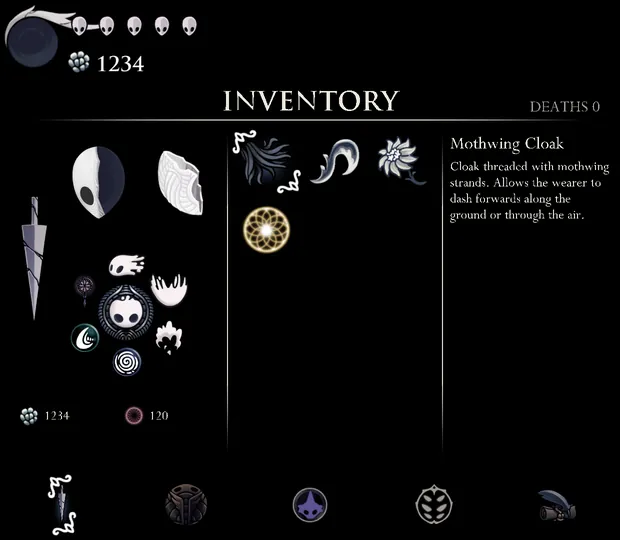
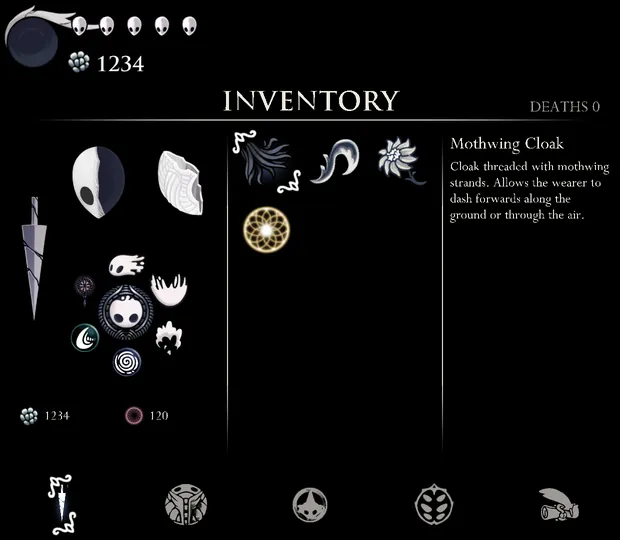
HK tab glyphs: device-tuned cut-out defaults; README recaptured; version 2.0.86 (#68)

diff --git a/tools/hollow-knight-patches/src/lower/HkTabGlyph.cs b/tools/hollow-knight-patches/src/lower/HkTabGlyph.cs
@@ -26,9 +26,10 @@ namespace HollowKnightPatches.Lower
     static class HkTabGlyph
     {
         // Normalised brightness below CutLow is cut out, above CutHigh is solid.
-        static float CutLow = 0.30f, CutHigh = 0.50f;
+        // Tuned on the Thor against the five real tab sprites (#68).
+        static float CutLow = 0.10f, CutHigh = 0.25f;
         // Keep the shape solid if cutting would leave less than this share.
-        static float MinKept = 0.45f;
+        static float MinKept = 0.25f;
 
         static readonly Dictionary<Sprite, Sprite> Made = new Dictionary<Sprite, Sprite>();
 

diff --git a/README.md b/README.md
@@ -40,6 +40,9 @@ keeps its own art, text and rules.
 - **Hollow Knight:** Inventory, Charms (equip and unequip on the lower screen),
   Guide, Journal and Map.
 - **Silksong:** Inventory, Crest and Tools, Tasks, Journal and Map.
+- The page tabs along the bottom are white glyphs in both games. Silksong
+  uses its own inventory tab icons; Hollow Knight has none, so its tabs use
+  white versions of its item art (nail, charm, map pin, hunter's mark, quill).
 - Maps support pan, pinch and slider zoom, markers, and switching between the
   current area and the whole world.
 - On the title screen and while paused, the lower screen hides the HUD and
